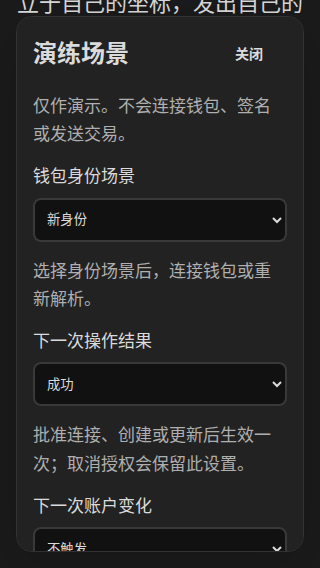
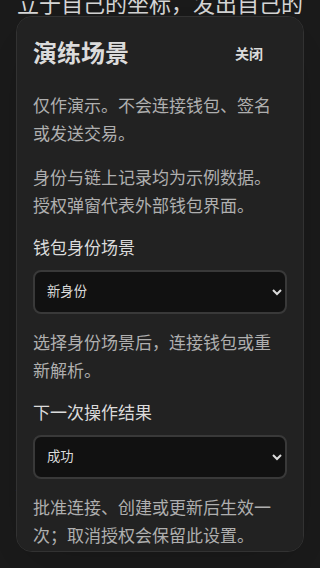
集中示例说明并明确外部钱包授权边界 (PRD v0.1_20260916-1610)

diff --git a/copy.js b/copy.js
@@ -9,9 +9,10 @@
     walletNote: 'Yours Wallet', independent: 'Your identity starts with you.', footer: 'Your wallet. Your identity. Your words.', prototype: 'Interactive prototype', scenarios: 'Explore scenarios', close: 'Close',
     scenario: 'Wallet identity', new: 'New identity', existing: 'Published identity', incomplete: 'Incomplete profile', resolveFail: 'Resolution fails', missing: 'Wallet unavailable',
     simulatorNote: 'Demo only. No wallet connection, signature or transaction is sent.', simulatorHint: 'Choose an identity scenario, then connect or resolve again.',
+    sampleDataNote: 'Identity and chain records are sample data. Authorization dialogs represent the external wallet.', walletAuthorization: 'Yours Wallet · External authorization',
     nextResult: 'Next operation result', resultSuccess: 'Success', nextResultHint: 'Applies once after approving a connection, creation or update. Cancelling keeps this setting.',
     accountEvent: 'Next account event', none: 'No event', 'switch-confirm': 'Switch during authorization', 'switch-process': 'Switch during processing', 'disconnect-confirm': 'Disconnect during authorization', 'disconnect-process': 'Disconnect during processing',
-    accountEventHint: 'Triggers once when creating or updating a profile: 1.2 seconds into authorization, or 0.6 seconds into processing.',
+    accountEventHint: 'Runs once on create or update: after 1.2s in authorization, or 0.6s in processing.',
     resolveAgain: 'Resolve again', failClipboard: 'Simulate copy failure', reset: 'Reset session',
     connectTitle: 'Connect Yours Wallet', connectBody: 'Let this app see your wallet identity. Publishing needs a separate confirmation.', approve: 'Approve', cancel: 'Cancel', simulateFailure: 'Simulate failure',
     connectCancelled: 'Connection cancelled', connectFailed: 'Connection failed', connectFailedBody: 'Your identity is unchanged. Check your wallet and try again.',
@@ -22,7 +23,7 @@
     type: 'Type', Person: 'Person', Organization: 'Organization', bio: 'Bio', optional: 'Optional', review: 'Review', back: 'Back', profile: 'Profile', editProfile: 'Edit Profile', editHeading: 'A little more you.', editBody: 'Update how you appear. Your BAP ID stays the same.',
     reviewHeading: 'This is your identity.', reviewBody: 'Review the details before confirming in your wallet.', create: 'Create Identity', createImpact: 'Your identity and profile will become public.', saveImpact: 'Your updated profile will become public. Your BAP ID will not change.', localId: 'Locally computed · not yet published', published: 'Published', controlStatement: 'Your wallet controls this identity.',
     copy: 'Copy', copied: 'Copied', copyFailed: "Couldn't copy", copyBap: 'Copy full BAP ID', noBio: 'No bio yet.',
-    createTitle: 'Confirm identity creation', saveTitle: 'Confirm profile update', simulatedWallet: 'Simulated wallet confirmation', currentIdentity: 'Current identity',
+    createTitle: 'Confirm identity creation', saveTitle: 'Confirm profile update', currentIdentity: 'Current identity',
     creating: 'Creating identity...', saving: 'Saving...', processingBody: 'Waiting for the wallet. Disconnecting or switching account cancels this operation.',
     createCancelled: 'Creation cancelled', saveCancelled: 'Saving cancelled', retained: 'Your editing values are kept. Review them and try again when ready.',
     createFailed: "Couldn't create identity", saveFailed: "Couldn't save profile", operationFailedBody: 'The operation did not complete. Your values are kept. Try again.',
@@ -30,10 +31,10 @@
     identityIntro: 'A constant in a changing world.', identityBody: 'Your public identity, under your control.', owner: 'Controlled by your connected wallet', profileDetails: 'Profile details', account: 'Wallet account',
     publicIntro: 'Your identity, in the open.', publicBody: 'A public view of the identity you control.', backIdentity: 'Back to My Identity', ownedByYou: 'Identity, owned by you.',
     save: 'Save Changes', discardTitle: 'Discard unsaved changes?', discardBody: 'Changes are not saved. Keep editing, or discard them to leave.', keepEditing: 'Keep editing', discard: 'Discard changes',
-    accountChanged: 'Account changed. Pending operations were cancelled.', identityUnchanged: 'Your identity is unchanged.', current: 'Current', preferenceHint: 'Language and appearance stay on this device.', demoAccount: 'Demo account', demoData: 'Sample identity · prototype data',
+    accountChanged: 'Account changed. Pending operations were cancelled.', identityUnchanged: 'Your identity is unchanged.', current: 'Current', preferenceHint: 'Language and appearance stay on this device.',
     setupStep: 'Profile', reviewStep: 'Review', confirmStep: 'Confirm', doneStep: 'Ready', copyFailureOn: 'Copy failure simulation is on', privatePreview: 'Public view preview',
     walletStatus: 'Wallet status', persistFailed: 'Preferences could not be saved on this device.',
-    chainRecord: 'Chain record', identityPublication: 'Identity publication', blockHeight: 'Block height', confirmation: 'Confirmation', confirmed: 'Confirmed', pendingConfirmation: 'Awaiting block confirmation', pendingBlock: 'Awaiting block', publicationTx: 'Publication TxID', copyTx: 'Copy publication TxID', recordUnavailable: 'Transaction record unavailable', sampleRecord: 'Sample record · prototype data'
+    chainRecord: 'Chain record', identityPublication: 'Identity publication', blockHeight: 'Block height', confirmation: 'Confirmation', confirmed: 'Confirmed', pendingConfirmation: 'Awaiting block confirmation', pendingBlock: 'Awaiting block', publicationTx: 'Publication TxID', copyTx: 'Copy publication TxID', recordUnavailable: 'Transaction record unavailable'
   },
   zh: {
     connect: '连接钱包', connected: '已连接', notConnected: '未连接', connecting: '正在连接', disconnect: '断开连接', accountSwitch: '切换账户', wallet: '钱包',
@@ -43,9 +44,10 @@
     walletNote: 'Yours Wallet', independent: '身份，由你开始。', footer: '你的钱包。你的身份。你的话语。', prototype: '交互原型', scenarios: '演练场景', close: '关闭',
     scenario: '钱包身份场景', new: '新身份', existing: '已发布身份', incomplete: '资料不完整', resolveFail: '解析失败', missing: '钱包不可用',
     simulatorNote: '仅作演示。不会连接钱包、签名或发送交易。', simulatorHint: '选择身份场景后，连接钱包或重新解析。',
+    sampleDataNote: '身份与链上记录均为示例数据。授权弹窗代表外部钱包界面。', walletAuthorization: 'Yours Wallet · 外部钱包授权',
     nextResult: '下一次操作结果', resultSuccess: '成功', nextResultHint: '批准连接、创建或更新后生效一次；取消授权会保留此设置。',
     accountEvent: '下一次账户变化', none: '不触发', 'switch-confirm': '授权时切换账户', 'switch-process': '处理中切换账户', 'disconnect-confirm': '授权时断开连接', 'disconnect-process': '处理中断开连接',
-    accountEventHint: '创建或更新资料时触发一次：授权窗口打开 1.2 秒后，或处理开始 0.6 秒后。',
+    accountEventHint: '创建身份或更新资料时触发一次：授权开始 1.2 秒后，或处理开始 0.6 秒后。',
     resolveAgain: '重新解析', failClipboard: '模拟复制失败', reset: '重置会话',
     connectTitle: '连接 Yours Wallet', connectBody: '允许应用查看钱包身份；发布时另行确认。', approve: '批准', cancel: '取消', simulateFailure: '模拟失败',
     connectCancelled: '连接已取消', connectFailed: '连接失败', connectFailedBody: '身份未改变。请检查钱包后重试。',
@@ -56,7 +58,7 @@
     type: '类型', Person: '个人', Organization: '组织', bio: '简介', optional: '可选', review: '预览确认', back: '返回', profile: '资料', editProfile: '编辑资料', editHeading: '更真实地表达你。', editBody: '更新展示资料，BAP ID 保持不变。',
     reviewHeading: '这就是你的身份。', reviewBody: '核对资料后，在钱包中确认。', create: '创建身份', createImpact: '你的身份和资料将公开发布。', saveImpact: '更新后的资料将公开发布，BAP ID 保持不变。', localId: '已本地计算 · 尚未发布', published: '已发布', controlStatement: '你的钱包掌控此身份。',
     copy: '复制', copied: '已复制', copyFailed: '无法复制', copyBap: '复制完整 BAP ID', noBio: '尚未填写简介。',
-    createTitle: '确认创建身份', saveTitle: '确认更新资料', simulatedWallet: '钱包确认模拟', currentIdentity: '当前身份',
+    createTitle: '确认创建身份', saveTitle: '确认更新资料', currentIdentity: '当前身份',
     creating: '正在创建身份…', saving: '正在保存…', processingBody: '正在等待钱包返回。断开或切换账户会取消此操作。',
     createCancelled: '创建已取消', saveCancelled: '保存已取消', retained: '已保留填写内容。核对后可重新尝试。',
     createFailed: '无法创建身份', saveFailed: '无法保存资料', operationFailedBody: '操作未完成，已保留填写内容。请重试。',
@@ -64,10 +66,10 @@
     identityIntro: '变化之中，自有坐标。', identityBody: '你的公开身份，由你掌控。', owner: '由当前连接的钱包控制', profileDetails: '资料详情', account: '钱包账户',
     publicIntro: '让世界看到你。', publicBody: '查看你所掌控身份的公开展示。', backIdentity: '返回我的身份', ownedByYou: '身份，属于你。',
     save: '保存修改', discardTitle: '放弃未保存的修改？', discardBody: '修改未保存。继续编辑，或放弃后离开。', keepEditing: '继续编辑', discard: '放弃修改',
-    accountChanged: '账户已切换，进行中的操作已取消。', identityUnchanged: '身份未改变。', current: '当前', preferenceHint: '语言与主题偏好保存在此设备。', demoAccount: '演示账户', demoData: '示例身份 · 原型数据',
+    accountChanged: '账户已切换，进行中的操作已取消。', identityUnchanged: '身份未改变。', current: '当前', preferenceHint: '语言与主题偏好保存在此设备。',
     setupStep: '资料', reviewStep: '核对', confirmStep: '确认', doneStep: '就绪', copyFailureOn: '已开启复制失败模拟', privatePreview: '公开展示预览',
     walletStatus: '钱包状态', persistFailed: '无法在此设备保存偏好。',
-    chainRecord: '链上记录', identityPublication: '身份发布记录', blockHeight: '区块高度', confirmation: '确认状态', confirmed: '已确认', pendingConfirmation: '等待区块确认', pendingBlock: '等待入块', publicationTx: '发布交易 TxID', copyTx: '复制发布交易 TxID', recordUnavailable: '暂无交易记录', sampleRecord: '示例记录 · 原型数据'
+    chainRecord: '链上记录', identityPublication: '身份发布记录', blockHeight: '区块高度', confirmation: '确认状态', confirmed: '已确认', pendingConfirmation: '等待区块确认', pendingBlock: '等待入块', publicationTx: '发布交易 TxID', copyTx: '复制发布交易 TxID', recordUnavailable: '暂无交易记录'
   }
   };
   const api = {en: words.en, zh: words.zh, locales: ['en', 'zh'], keys: Object.keys(words.en)};

diff --git a/app.jsx b/app.jsx
@@ -183,23 +183,22 @@ function App() {
       {state.page === 'identity' && <section className="identity-page">
         {heading('identityIntro', 'identityBody', 'myIdentity')}
         <div className="identity-layout"><div className="identity-primary"><div className="person-row"><Portrait profile={state.profile} large /><div><span className="profile-type">{t(state.profile.type)}</span><h2>{state.profile.name || t('complete')}</h2><p className="hint">{t('owner')}</p></div></div><Identifier id={bapId} t={t} failCopy={failCopy} /><div className="action-row"><Button variant="accent" data-action="edit" onClick={() => dispatch({type: 'EDIT'})}>{t('editProfile')}</Button><Button data-action="public" onClick={() => {setAngle(-10); setRotating(!matchMedia('(prefers-reduced-motion: reduce)').matches); navigate('public');}}>{t('publicIdentity')}</Button></div></div>
-        <aside className="profile-detail"><span className="eyebrow">{t('profileDetails')}</span><h3>{t('bio')}</h3><p className="bio">{state.profile.bio || t('noBio')}</p><div className="detail-bottom"><S2.StatusLight label={t('published')} /><span>{t('demoData')}</span></div></aside></div>
+        <aside className="profile-detail"><span className="eyebrow">{t('profileDetails')}</span><h3>{t('bio')}</h3><p className="bio">{state.profile.bio || t('noBio')}</p><div className="detail-bottom"><S2.StatusLight label={t('published')} /></div></aside></div>
         <div className="flat-horizon" aria-hidden="true"></div>
       </section>}
       {state.page === 'public' && <section className="public-page">{heading('publicIntro', 'publicBody', 'publicIdentity')}<IdentityCard profile={profileDisplay} id={bapId} t={t} failCopy={failCopy} transaction={state.transaction} rotating={rotating} setRotating={setRotating} angle={angle} setAngle={setAngle} /><div className="public-back"><Button variant="quiet" data-action="back-identity" onClick={() => navigate('identity')}>{t('backIdentity')}</Button></div></section>}
     </main>
     <footer className="footer"><p>{t('footer')}</p><div className="footer-controls">{state.wallet && <span className="wallet-connected"><S2.StatusLight label={t('connected')} /></span>}<Button variant="quiet" onClick={() => setLab(!lab)} aria-expanded={lab}>{t('prototype')}<span className="prototype-dot" aria-hidden="true"></span></Button></div></footer>
-    {lab && <section className="scenario-panel" aria-label={t('scenarios')}><div className="panel-title"><h2>{t('scenarios')}</h2><Button variant="quiet" onClick={() => setLab(false)}>{t('close')}</Button></div><p>{t('simulatorNote')}</p><label>{t('scenario')}<select data-scenario="identity" value={scenario} onChange={e => setScenario(e.target.value)}>{['new', 'existing', 'incomplete', 'resolveFail', 'missing'].map(key => <option value={key} key={key}>{t(key)}</option>)}</select></label><p className="hint">{t('simulatorHint')}</p>
+    {lab && <section className="scenario-panel" aria-label={t('scenarios')}><div className="panel-title"><h2>{t('scenarios')}</h2><Button variant="quiet" onClick={() => setLab(false)}>{t('close')}</Button></div><p>{t('simulatorNote')}</p><p>{t('sampleDataNote')}</p><label>{t('scenario')}<select data-scenario="identity" value={scenario} onChange={e => setScenario(e.target.value)}>{['new', 'existing', 'incomplete', 'resolveFail', 'missing'].map(key => <option value={key} key={key}>{t(key)}</option>)}</select></label><p className="hint">{t('simulatorHint')}</p>
       <label>{t('nextResult')}<select data-scenario="result" value={nextResult} onChange={e => setNextResult(e.target.value)}><option value="success">{t('resultSuccess')}</option><option value="failure">{t('simulateFailure')}</option></select></label>
       <p className="hint">{t('nextResultHint')}</p>
       <label>{t('accountEvent')}<select data-scenario="account-event" value={accountEvent} onChange={e => setAccountEvent(e.target.value)}>{['none', 'switch-confirm', 'switch-process', 'disconnect-confirm', 'disconnect-process'].map(value => <option key={value} value={value}>{t(value)}</option>)}</select></label>
       <p className="hint">{t('accountEventHint')}</p>
       <label className="check-row"><input type="checkbox" checked={failCopy} onChange={e => setFailCopy(e.target.checked)} />{t('failClipboard')}</label><div className="action-row">{state.wallet && <><Button onClick={resolveAgain}>{t('resolveAgain')}</Button><Button data-action="simulate-switch" onClick={switchAccount}>{t('accountSwitch')}</Button><Button data-action="simulate-disconnect" onClick={disconnect}>{t('disconnect')}</Button></>}<Button data-action="reset-session" onClick={resetSession}>{t('reset')}</Button></div></section>}
-    {state.modal && <Modal closeLabel={t('close')} titleKey={state.modal === 'connect' ? (scenario === 'missing' ? 'missingTitle' : 'connectTitle') : state.modal === 'discard' ? 'discardTitle' : state.modal === 'create' ? 'createTitle' : 'saveTitle'} title={t(state.modal === 'connect' ? (scenario === 'missing' ? 'missingTitle' : 'connectTitle') : state.modal === 'discard' ? 'discardTitle' : state.modal === 'create' ? 'createTitle' : 'saveTitle')} onCancel={() => dispatch({type: state.modal === 'discard' ? 'STAY' : 'CANCEL'})}>
+    {state.modal && <Modal context={state.modal === 'discard' || (state.modal === 'connect' && scenario === 'missing') ? 'OWNWORD' : t('walletAuthorization')} closeLabel={t('close')} titleKey={state.modal === 'connect' ? (scenario === 'missing' ? 'missingTitle' : 'connectTitle') : state.modal === 'discard' ? 'discardTitle' : state.modal === 'create' ? 'createTitle' : 'saveTitle'} title={t(state.modal === 'connect' ? (scenario === 'missing' ? 'missingTitle' : 'connectTitle') : state.modal === 'discard' ? 'discardTitle' : state.modal === 'create' ? 'createTitle' : 'saveTitle')} onCancel={() => dispatch({type: state.modal === 'discard' ? 'STAY' : 'CANCEL'})}>
       {state.modal === 'discard' ? <><p>{t('discardBody')}</p><div className="action-row"><Button data-action="keep-editing" onClick={() => dispatch({type: 'STAY'})}>{t('keepEditing')}</Button><Button variant="negative" data-action="discard" onClick={() => dispatch({type: 'DISCARD'})}>{t('discard')}</Button></div></> : <>
         <p>{t(state.modal === 'connect' ? scenario === 'missing' ? 'missingBody' : 'connectBody' : state.modal === 'create' ? 'createImpact' : 'saveImpact')}</p>
         {state.modal !== 'connect' && <><div className="person-row compact"><Portrait profile={state.draft} /><div><span className="eyebrow">{t('currentIdentity')}</span><strong>{state.draft.name}</strong></div></div><Identifier id={bapId} t={t} failCopy={failCopy} /><p className="hint">{t('controlStatement')}</p></>}
-        <div className="simulation-label"><span>{t('simulatedWallet')}</span><p>{t('simulatorNote')}</p></div>
         <div className="action-row"><Button data-action="cancel" onClick={() => dispatch({type: 'CANCEL'})}>{t('cancel')}</Button><Button variant="accent" data-action="approve" onClick={() => state.modal === 'connect' ? confirmConnection() : approveOperation()}>{t(scenario === 'missing' && state.modal === 'connect' ? 'retry' : 'approve')}</Button></div>
       </>}
     </Modal>}

diff --git a/app.css b/app.css
@@ -176,13 +176,12 @@ main { position: relative; width: 100%; max-width: 1120px; margin: 0 auto; paddi
 .modal { color: var(--s2d-text); width: min(520px, calc(100vw - 32px)); max-height: calc(100dvh - 32px); overflow-y: auto; border: 1px solid var(--s2d-border); border-radius: var(--s2d-radius-xl); padding: var(--s2-spacing-500); background: var(--s2d-layer-raised); box-shadow: 0 24px 96px color-mix(in srgb, var(--s2-black) 24%, transparent); }
 .modal::backdrop { background: color-mix(in srgb, var(--s2-black) 32%, transparent); backdrop-filter: blur(6px); }
 .modal-top { display: flex; justify-content: space-between; align-items: center; gap: var(--s2-spacing-100); margin-bottom: var(--s2-spacing-400); }
+.modal-top > .s2d-button { flex-shrink: 0; white-space: nowrap; }
 .modal h2 { font-size: var(--s2-font-size-800); line-height: 1.2; font-weight: 600; letter-spacing: -.03em; }
 .modal > p { margin: var(--s2-spacing-300) 0 var(--s2-spacing-400); line-height: 1.7; color: var(--s2-gray-700); }
 .modal .compact { margin: var(--s2-spacing-400) 0; }
 .modal .compact > div { display: grid; gap: var(--s2-spacing-100); }
 .modal .compact .portrait { width: 48px; height: 48px; }
-.simulation-label { border-top: 1px solid var(--s2d-border); margin: var(--s2-spacing-400) 0; padding-top: var(--s2-spacing-300); font-size: var(--s2-font-size-75); color: var(--s2-gray-700); display: grid; gap: var(--s2-spacing-100); }
-.simulation-label > span { text-transform: uppercase; letter-spacing: .1em; font-weight: 600; }
 .scenario-panel { position: fixed; z-index: 8; right: var(--s2-spacing-400); bottom: var(--s2-spacing-400); width: 365px; max-width: calc(100vw - 32px); max-height: calc(100dvh - 32px); overflow-y: auto; padding: var(--s2-spacing-400); border: 1px solid var(--s2d-border); border-radius: var(--s2d-radius-xl); background: var(--s2d-layer-raised); box-shadow: 0 16px 64px color-mix(in srgb, var(--s2-black) 18%, transparent); display: grid; gap: var(--s2-spacing-300); }
 .panel-title { display: flex; justify-content: space-between; gap: var(--s2-spacing-100); align-items: center; }
 .panel-title h2 { font-size: var(--s2-font-size-400); }
@@ -279,7 +278,6 @@ main { position: relative; width: 100%; max-width: 1120px; margin: 0 auto; paddi
   /* The confirmation actions are the point of the dialog: pin them to the
      scrollport so short phones (320x568) do not require hunting inside it. */
   .modal .action-row { position: sticky; bottom: 0; z-index: 2; background: var(--s2d-layer-raised); margin-bottom: calc(-1 * var(--s2-spacing-500)); padding-block: var(--s2-spacing-200) var(--s2-spacing-500); }
-  .modal .simulation-label { display: none; }
   /* Short windows (a 1220x555 desktop window, or 320x568 phones) get a
      compressed page: thinner chrome, tighter blocks, and form actions pinned
      to the scrollport, so the primary action stays on screen without hunting. */

diff --git a/components.jsx b/components.jsx
@@ -87,7 +87,7 @@ function useDismissable(open, onClose, ref) {
     };
   }, [open, onClose, ref]);
 }
-function Modal({title, titleKey, children, onCancel, closeLabel}) {
+function Modal({title, titleKey, children, onCancel, closeLabel, context = 'OWNWORD'}) {
   const dialog = React.useRef(null);
   React.useEffect(() => {
     const previous = document.activeElement;
@@ -95,7 +95,7 @@ function Modal({title, titleKey, children, onCancel, closeLabel}) {
     return () => {if (previous?.isConnected) previous.focus();};
   }, []);
   return <dialog ref={dialog} className="modal" data-modal-title={titleKey || ""} aria-labelledby="dialog-title" onCancel={e => {e.preventDefault(); onCancel();}}>
-    <div className="modal-top"><span className="eyebrow">OWNWORD</span><Button variant="quiet" onClick={onCancel} aria-label={title + ' — ' + closeLabel}>{closeLabel}</Button></div>
+    <div className="modal-top"><span className="eyebrow">{context}</span><Button variant="quiet" onClick={onCancel} aria-label={title + ' — ' + closeLabel}>{closeLabel}</Button></div>
     <h2 id="dialog-title">{title}</h2>{children}
   </dialog>;
 }
@@ -152,7 +152,7 @@ function IdentityCard({profile, id, t, failCopy, transaction, rotating, setRotat
             <div><dt>{t('confirmation')}</dt><dd data-chain="confirmation">{t(transaction && transaction.blockHeight ? 'confirmed' : 'pendingConfirmation')}</dd></div>
           </dl>
           {transaction ? <Identifier id={transaction.txid} label={t('publicationTx')} copyLabel="copyTx" target="tx" t={t} failCopy={failCopy} /> : <p className="hint">{t('recordUnavailable')}</p>}
-          <div className="plate-foot"><span>{t('sampleRecord')}</span><span>BSV</span></div>
+          <div className="plate-foot"><span>BSV</span></div>
         </article>
       </div>
     </div>

diff --git a/check-browser.py b/check-browser.py
@@ -299,6 +299,12 @@ def check_prototype_controls():
             audit_state(f'prototype-controls-{locale}-{theme}')
             call('screenshot', str(EVIDENCE / f'prototype-controls-{locale}-{theme}.png'))
             click_selector('.panel-title button')
+            click_action('connect')
+            expect('document.querySelector(".modal-top .eyebrow").textContent === OwnwordCopy[document.documentElement.lang === "zh-CN" ? "zh" : "en"].walletAuthorization && !document.querySelector(".simulation-label")', f'{locale}/{theme} external wallet boundary stays visible')
+            expect('[...document.querySelectorAll("dialog button")].every(e=>{const r=e.getBoundingClientRect();return r.left>=0 && r.right<=innerWidth && r.top>=0 && r.bottom<=innerHeight})', f'{locale}/{theme} wallet actions fit short phone viewport')
+            audit_state(f'wallet-boundary-{locale}-{theme}')
+            call('screenshot', str(EVIDENCE / f'wallet-boundary-{locale}-{theme}.png'))
+            click_action('cancel')
     call('set', 'viewport', 1440, 1000)
     pref()
     configure_control('result', 'failure')
@@ -316,7 +322,12 @@ def check_prototype_controls():
     wait_until('document.querySelector("[data-error]")?.dataset.error === "createFailed"', 'Configured creation failure preserves review')
     expect('document.querySelector(".review-profile h2").textContent === "Controls Review"', 'Creation failure preserves draft')
     click_action('submit-operation'); click_action('approve'); wait_page('ready')
-    click_action('go-identity'); click_action('edit')
+    click_action('go-identity')
+    expect('!document.querySelector("main").textContent.includes("prototype data")', 'Identity has no sample-data annotation')
+    click_action('public'); wait_page('public')
+    expect('!document.querySelector("main").textContent.includes("prototype data")', 'Public identity and chain record have no sample-data annotation')
+    call('screenshot', str(EVIDENCE / 'prototype-product-public.png'))
+    click_action('back-identity'); click_action('edit')
     call('fill', '#profile-name', 'Updated Controls')
     click_action('review')
     configure_control('result', 'failure')

diff --git a/原型演练_20260916-1604.md b/原型演练_20260916-1604.md
@@ -10,6 +10,7 @@
 - “下一次账户变化”可选授权时或处理中切换账户／断开。创建身份或更新资料进入对应阶段后自动触发一次：授权窗口打开 1.2 秒后，处理开始 0.6 秒后。取消或离开阶段会清除计时器，未触发的配置仍保留。
 - 设置内可立即切换示例账户、断开、重新解析或重置会话。重置会清除待触发的结果、账户事件和复制失败开关。
 - 顶栏断开连接、产品失败后的重试及钱包授权中的批准／取消继续保留。
+- 示例数据和模拟行为说明统一放在原型设置，身份页与卡片不再重复展示。授权弹窗顶部标注“Yours Wallet · 外部钱包授权”；未保存修改确认、钱包不可用等应用提示仍标注 OWNWORD。
 
 ## 验证
 
@@ -22,8 +23,8 @@ python3 check-tokens.py
 OWNWORD_PORT=4311 python3 check-browser.py --controls-only
 ```
 
-浏览器检查需在宿主环境执行。当前专项 31 条通过，覆盖连接取消、创建与更新失败、一次性重试、四类账户事件、旧结果隔离和设置收起。中英×浅深在 320×568 下无横向溢出，4 次 axe 审计无 violation。
+浏览器检查需在宿主环境执行。当前专项 45 条通过，覆盖连接取消、创建与更新失败、一次性重试、四类账户事件、旧结果隔离、设置收起、示例说明集中及外部钱包边界。中英×浅深在 320×568 下无横向溢出，8 次 axe 审计无 violation。
 
-证据：`evidence/prototype-controls-results.json`、`prototype-controls-errors.txt`、`prototype-controls-*.png`、`state-prototype-controls-*-axe.json`。axe 的 4 条 incomplete 涉及背景首页眉题与地平线文字的遮挡／伪元素，不涉及设置内控件；截图已复核，无新增可见对比度问题。
+证据：`evidence/prototype-controls-results.json`、`prototype-controls-errors.txt`、`prototype-controls-*.png`、`state-prototype-controls-*-axe.json`、`wallet-boundary-*.png`、`state-wallet-boundary-*-axe.json`。axe 的 4 条 incomplete 涉及背景首页眉题与地平线文字的遮挡／伪元素，不涉及设置内控件；截图已复核，无新增可见对比度问题。
 
 模型 74 条、词典 4 条、65 个 token 解析通过。本专项不替代完整 BDD 基线；原有全量浏览器脚本已迁移到新的场景入口。

diff --git a/implementation-handoff.md b/implementation-handoff.md
@@ -2,13 +2,15 @@
 
 本文只记录「原型 → 生产实现」的替换契约与状态机契约。业务事实以[核心认知](../../_task/system-design/spec/核心认知.md)为唯一来源；范围与验收以[产品设计 v0.1](../../_task/system-design/spec/prd/v0.1/设计文档v0.1.md)为准；逐条验收映射与证据见[verification.md](verification.md)。本文不重复定义上述任何规则。
 
+原型本身用于产品评审，不要求转换为生产构建或替换正式组件。场景控制与钱包授权演示的当前操作方式见[原型演练](原型演练_20260916-1604.md)。
+
 ## 1. 原型构成
 
 | 文件 | 职责 |
 | --- | --- |
 | `index.html` | 加载顺序：S2 令牌与组件 CSS → `vendor/` 的 React/ReactDOM/Babel → `model.js` → `components.jsx` → `app.jsx` |
 | `model.js` | 纯函数状态机：`initial()`、`validate()`、`reducer()`。无 DOM、无计时器 |
-| `copy.js` | 双语词典（142 键），术语权威是核心认知第 2 节；`check-copy.cjs` 校验键对齐、空串与禁区词 |
+| `copy.js` | 双语词典，术语权威是核心认知第 2 节；`check-copy.cjs` 校验键对齐、空串与禁区词，当前键数见 `evidence/copy-contract.json` |
 | `app.jsx` | 界面与副作用：计时器、剪贴板、头像本地预览、偏好持久化、导航保护 |
 | `components.jsx` | S2 组件适配层：为设计系统返回的元素补受控输入、ARIA、事件与表单提交 |
 | `app.css` | 视觉：穹顶、地平线、语义表面、3D 身份板 |
@@ -94,7 +96,7 @@
 
 ## 3.2 小屏弹窗（实测）
 
-320×800 下钱包确认弹窗内容高于视口，弹窗内部可滚动（`max-height` + `overflow-y:auto`）。主操作（Cancel / Approve）在首屏可见，原型专用的「模拟失败 / 切换账户 / 断开」一行需滚动。生产实现需保证主操作在 320px 首屏可见，次级操作允许滚动；断言 `Dialog primary actions stay inside a 320px viewport` 覆盖这一点。
+钱包确认弹窗保留关闭、取消和批准；场景控制集中到原型设置。弹窗内部允许滚动，320×568 下关闭、取消和批准保持可见，关闭按钮不换行。中英×浅深验证见原型演练专项证据。
 
 ## 4. 不得丢失的可观察行为
 

diff --git a/verification.md b/verification.md
@@ -11,7 +11,9 @@
 
 ## 实现
 
-`copy.js` 集中保存中英双语词典（148 键），术语权威是核心认知第 2 节；`check-copy.cjs` 校验两语言键集一致、无空串、无第 2.3 节禁区用词、无重复长句。界面状态通过 `data-*` 属性暴露（`data-screen-label`、`data-notice`、`data-error`、`data-busy`、`data-incomplete`、`data-copy-feedback`、`data-field-error`、`data-modal-title`、`data-action`），断言因此不依赖文案。
+当前场景控制入口、钱包授权边界和专项验证见[原型演练](原型演练_20260916-1604.md)。专项证据为 `evidence/prototype-controls-results.json`；下文全量 BDD 结果是原有基线，本次未全量重跑，不作为当前全部页面已重新验收的声明。
+
+`copy.js` 集中保存中英双语词典，当前键数见 `evidence/copy-contract.json`。术语权威是核心认知第 2 节；`check-copy.cjs` 校验两语言键集一致、无空串、无第 2.3 节禁区用词、无重复长句。界面状态通过 `data-*` 属性暴露（`data-screen-label`、`data-notice`、`data-error`、`data-busy`、`data-incomplete`、`data-copy-feedback`、`data-field-error`、`data-modal-title`、`data-action`），断言因此不依赖文案。
 
 `index.html` 按 Baoyu Design 导入结果加载 S2 的全部 CSS 依赖及组件 bundle。React、ReactDOM 与 Babel 从 `vendor/` 本地加载（同版本原文件，`integrity` 保留作校验，来源与哈希见 [vendor/README.md](vendor/README.md)），因此启动不依赖 CDN。`components.jsx` 消费其 Button、TextField、TextArea，`app.jsx` 另用 StatusLight、Skeleton。组件源是本地视觉样件；适配层为其返回元素添加受控输入、ARIA、事件及表单提交。弹窗使用浏览器原生 dialog 管理焦点和 Escape，不修改源设计系统。
 
